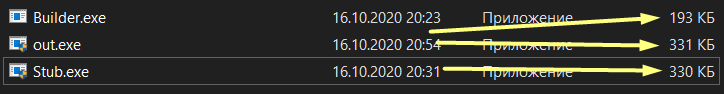
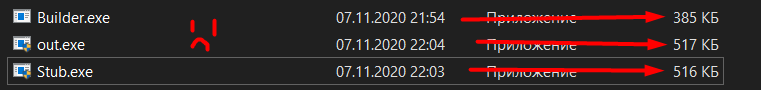
Garbage in readme.md

diff --git a/README.md b/README.md
@@ -5,10 +5,8 @@
  ![UI](https://github.com/4B4DB4B3/B4DB4B3-RAT/blob/main/Screenshots/NEWUI.png)   
  ![EXAMPLE](https://github.com/4B4DB4B3/B4DB4B3-RAT/blob/main/Screenshots/COMMANDLIST.png)   
 ### [Weight of stub and builder]  
- #### P.S: Around 400-300 KB :)
- ![WEIGHT](https://github.com/4B4DB4B3/B4DB4B3-RAT/blob/main/Screenshots/WEIGHT.png)   
- #### Update: (latest) i sad :( (but it's not too big)
- ![UP_WEIGHT](https://github.com/4B4DB4B3/B4DB4B3-RAT/blob/main/Screenshots/raise_weight.png)   
+ #### Around 600-500 KB
+ ![WEIGHT](https://github.com/4B4DB4B3/B4DB4B3-RAT/blob/main/Screenshots/WEIGHT.png)  
 
 
 # [Commands (Will be added)]
